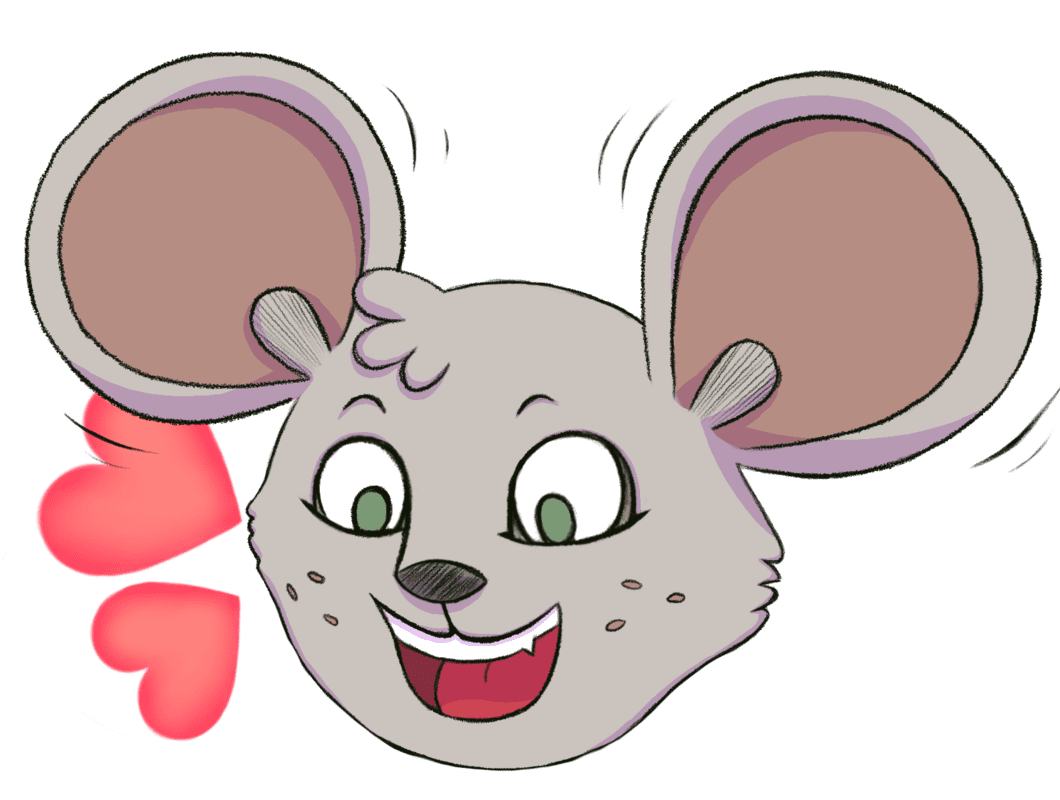
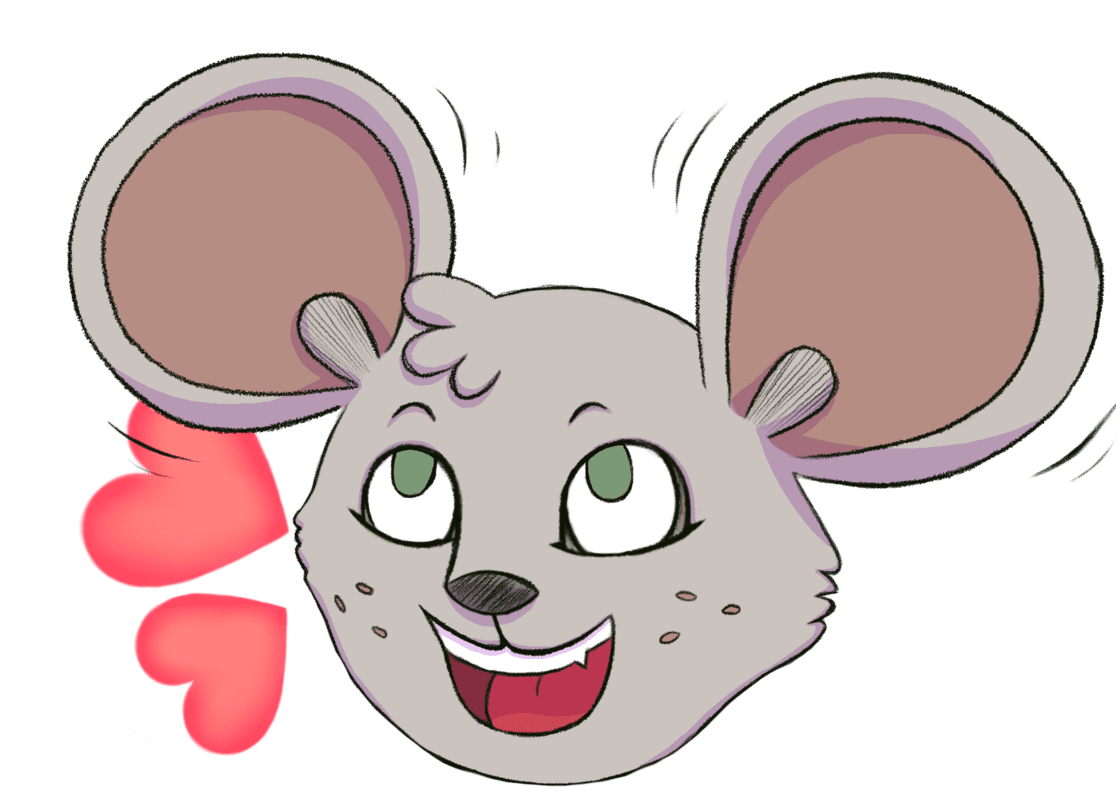
Change ads page product graphics, character reactions for print

Changed region(s): [[0.0, 0.0625, 1.0, 1.0], [0.467, 0.4688, 0.6226, 0.7188], [0.5915, 0.7188, 0.6849, 0.7812]]

diff --git a/index.html b/index.html
@@ -87,18 +87,18 @@
       <div class="marketing-page-phase" data-phase="select-product" data-selected-character="raccoon">
         <div class="product-select-container">
           <div class="product-select">
-            <img class="product" data-character="raccoon" data-reaction="hearts" src="assets/product-raccoon-trashpicker.png" draggable="false">
-            <img class="product" data-character="raccoon" data-reaction="confused" src="assets/product-raccoon-washer.png" draggable="false">
-            <img class="product" data-character="raccoon" data-reaction="shocked" src="assets/product-raccoon-gardening.png" draggable="false">
-            <img class="product" data-character="raccoon" data-reaction="laugh" src="assets/product-raccoon-garbagetruck.png" draggable="false">
-            <img class="product" data-character="mouse" data-reaction="hearts" src="assets/product-mouse-computer.png" draggable="false">
-            <img class="product" data-character="mouse" data-reaction="confused" src="assets/product-mouse-skateboard.png" draggable="false">
-            <img class="product" data-character="mouse" data-reaction="shocked" src="assets/product-mouse-headphones.png" draggable="false">
-            <img class="product" data-character="mouse" data-reaction="laugh" src="assets/product-mouse-cheese.png" draggable="false">
-            <img class="product" data-character="croc" data-reaction="hearts" src="assets/product-croc-boat.png" draggable="false">
-            <img class="product" data-character="croc" data-reaction="confused" src="assets/product-croc-toothcare.png" draggable="false">
-            <img class="product" data-character="croc" data-reaction="shocked" src="assets/product-croc-swimgear.png" draggable="false">
-            <img class="product" data-character="croc" data-reaction="laugh" src="assets/product-croc-floatie.png" draggable="false">
+            <img class="product" data-character="raccoon" data-reaction="hearts" src="assets/product-select-raccoon-trashpicker.png" draggable="false">
+            <img class="product" data-character="raccoon" data-reaction="confused" src="assets/product-select-raccoon-washer.png" draggable="false">
+            <img class="product" data-character="raccoon" data-reaction="shocked" src="assets/product-select-raccoon-gardening.png" draggable="false">
+            <img class="product" data-character="raccoon" data-reaction="laugh" src="assets/product-select-raccoon-garbagetruck.png" draggable="false">
+            <img class="product" data-character="mouse" data-reaction="hearts" src="assets/product-select-mouse-computer.png" draggable="false">
+            <img class="product" data-character="mouse" data-reaction="confused" src="assets/product-select-mouse-skateboard.png" draggable="false">
+            <img class="product" data-character="mouse" data-reaction="shocked" src="assets/product-select-mouse-headphones.png" draggable="false">
+            <img class="product" data-character="mouse" data-reaction="laugh" src="assets/product-select-mouse-cheese.png" draggable="false">
+            <img class="product" data-character="croc" data-reaction="hearts" src="assets/product-select-croc-boat.png" draggable="false">
+            <img class="product" data-character="croc" data-reaction="confused" src="assets/product-select-croc-toothcare.png" draggable="false">
+            <img class="product" data-character="croc" data-reaction="shocked" src="assets/product-select-croc-swimgear.png" draggable="false">
+            <img class="product" data-character="croc" data-reaction="laugh" src="assets/product-select-croc-floatie.png" draggable="false">
           </div>
           <div class="character-head-container">
             <img class="character-head" data-character="raccoon" src="assets/marketing-character-head-raccoon.png" draggable="false">
@@ -173,6 +173,18 @@
         <img class="reaction-character-print" data-character="croc" data-reaction="laugh" src="assets/marketing-character-print-reaction-croc-laugh.png" draggable="false">
         <img class="reaction-character-print" data-character="croc" data-reaction="shocked" src="assets/marketing-character-print-reaction-croc-shocked.png" draggable="false">
         <img class="reaction-character-print" data-character="croc" data-reaction="confused" src="assets/marketing-character-print-reaction-croc-confused.png" draggable="false">
+        <img class="product" data-character="raccoon" data-reaction="hearts" src="assets/product-raccoon-trashpicker.png" draggable="false">
+        <img class="product" data-character="raccoon" data-reaction="confused" src="assets/product-raccoon-washer.png" draggable="false">
+        <img class="product" data-character="raccoon" data-reaction="shocked" src="assets/product-raccoon-gardening.png" draggable="false">
+        <img class="product" data-character="raccoon" data-reaction="laugh" src="assets/product-raccoon-garbagetruck.png" draggable="false">
+        <img class="product" data-character="mouse" data-reaction="hearts" src="assets/product-mouse-computer.png" draggable="false">
+        <img class="product" data-character="mouse" data-reaction="confused" src="assets/product-mouse-skateboard.png" draggable="false">
+        <img class="product" data-character="mouse" data-reaction="shocked" src="assets/product-mouse-headphones.png" draggable="false">
+        <img class="product" data-character="mouse" data-reaction="laugh" src="assets/product-mouse-cheese.png" draggable="false">
+        <img class="product" data-character="croc" data-reaction="hearts" src="assets/product-croc-boat.png" draggable="false">
+        <img class="product" data-character="croc" data-reaction="confused" src="assets/product-croc-toothcare.png" draggable="false">
+        <img class="product" data-character="croc" data-reaction="shocked" src="assets/product-croc-swimgear.png" draggable="false">
+        <img class="product" data-character="croc" data-reaction="laugh" src="assets/product-croc-floatie.png" draggable="false">
       </div>
       <button class="publish-button" style="display: none;">
         <img src="assets/arrow-with-check.png" draggable="false">

diff --git a/js/passport-page-marketing.js b/js/passport-page-marketing.js
@@ -80,12 +80,11 @@ function handleReturnToCharacterSelect() {
 //
 function handleProductSelect(event) {
   const productElement = event.target.closest('.product');
-  const productElementCopy = productElement.cloneNode(true);
   selectedReaction = productElement.getAttribute('data-reaction');
   argumentSelectPhaseContainer.setAttribute('data-selected-reaction', 'neutral');
-  productElementCopy.removeAttribute('data-character');
-  productElementCopy.removeAttribute('data-reaction');
-  argumentSelectPhaseContainer.appendChild(productElementCopy);
+  const phoneProductElement = argumentSelectPhaseContainer.querySelector(`.product[data-character="${selectedCharacter}"][data-reaction="${selectedReaction}"]`);
+  phoneProductElement.removeAttribute('data-character');
+  phoneProductElement.removeAttribute('data-reaction');
   productSelectPhaseContainer.classList.remove('active');
   argumentSelectPhaseContainer.classList.add('active');
   publishButton.style.display = '';

diff --git a/css/passport-page-marketing.css b/css/passport-page-marketing.css
@@ -180,8 +180,8 @@
   .reaction-character-print {
     display: none;
     position: absolute;
-    right: 2rem;
-    top: 3rem;
+    right: 1.5rem;
+    bottom: 6rem;
     width: 18rem;
     z-index: 2;
   }
